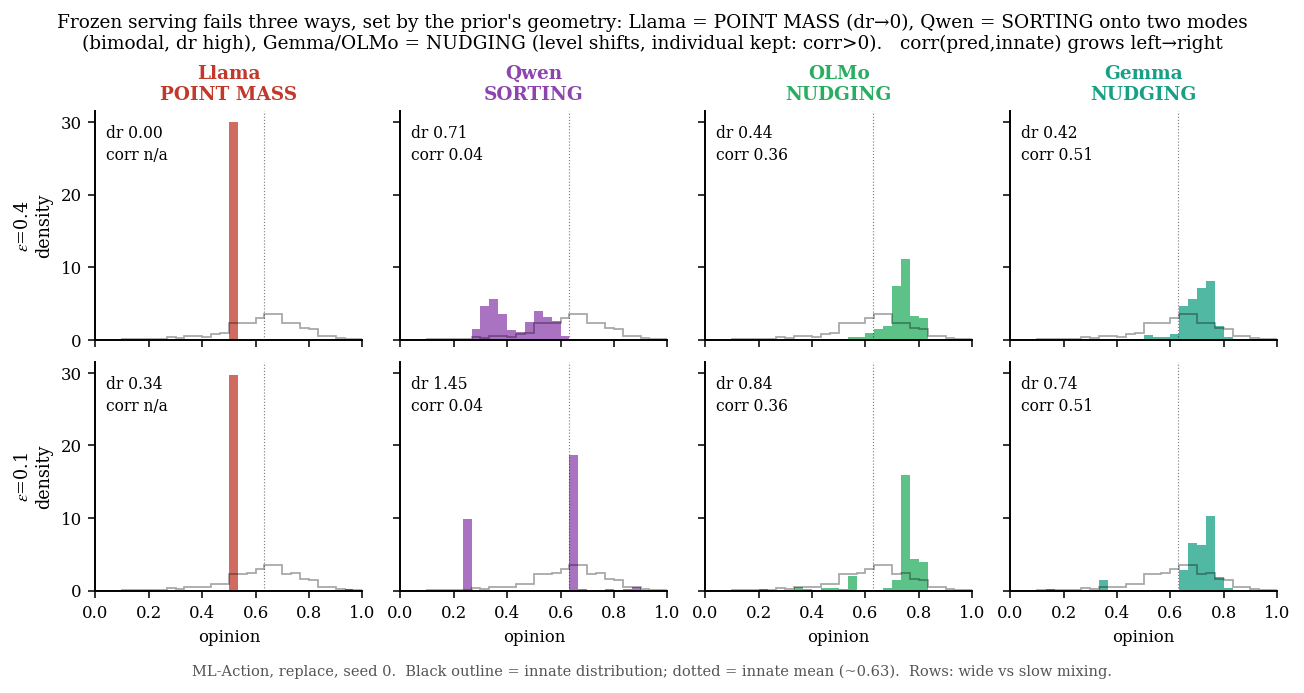
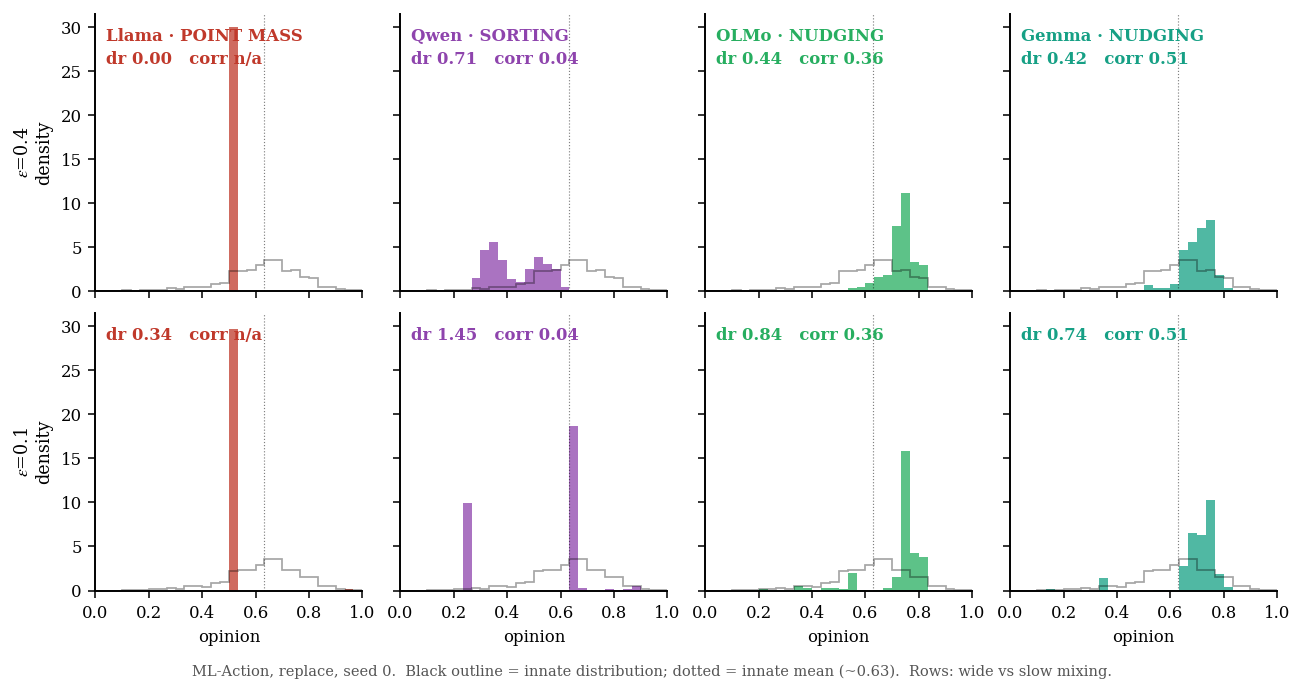
Act I polish: remove all figure titles (narrative -> caption block), add I.3 homophily-protection punchline figure
- strip suptitle/set_title from all 7 Act I scripts; identity moves to axis/
  colorbar labels + in-panel text; interpretation lives in notes/ACT1_CAPTIONS.md
- new fig_nf_homophily: neutral vs homophily no-feedback (ppl|dr), the Act I.3
  punchline (homophily -> ~3x healthier watching model, dr 0.95-0.99)

diff --git a/experiments/llm/plot_nf_homophily.py b/experiments/llm/plot_nf_homophily.py
@@ -1,0 +1,104 @@
+"""Act I.3 punchline: homophily protects the model that only WATCHES the
+population (train, never serve = no-feedback).
+
+Four no-feedback runs at the same cell (ML-Action, a040, replace, beta=0,
+seed 0), crossing mixing {slow e010, wide e040} x social structure
+{neutral gamma=0, homophily gamma=+1.5}:
+
+  arm            ppl(tail)   dr(end)
+  neutral e010    15.4        0.72
+  homo    e010     5.8        0.99
+  neutral e040    29.0        0.23
+  homo    e040     9.2        0.95
+
+READING (direction confirmed, magnitude honest): homophily keeps the
+population diverse (dr ~0.95-0.99 vs 0.23-0.72), and the watching model
+stays ~3x healthier (ppl 9.2/5.8 vs 29.0/15.4). The same social structure
+that protects the population (Act I.1) protects a model open-loop-watching
+it -- open-loop health is a property of the society. BUT homophily
+PROTECTS, it does not fully RESCUE: homo ppl 9.2 (wide) / 5.8 (slow) still
+sit above the pristine floor ~2, because even homophily lets the population
+drift slightly and that residual non-stationarity rots the model.
+
+Run: MPLCONFIGDIR=/tmp/mpl python experiments/llm/plot_nf_homophily.py
+Pure numpy/torch on pulled runs -- no transformers, no download.
+"""
+import json
+import os
+
+import numpy as np
+import torch
+
+os.environ.setdefault("MPLCONFIGDIR", "/tmp/mpl")
+import matplotlib
+matplotlib.use("Agg")
+import matplotlib.pyplot as plt
+
+RUNS = "runs/pokec_gated_lm"
+OUT = "experiments/llm/figs"
+TAIL = 5
+# (label, eps) -> (neutral tag, homophily tag)
+CELLS = [("slow  $\\epsilon$=0.1", "mlanf_e010_a040_rep_b0_s0", "mlanfH_e010_a040_rep_b0_s0"),
+         ("wide  $\\epsilon$=0.4", "mlanf_e040_a040_rep_b0_s0", "mlanfH_e040_a040_rep_b0_s0")]
+NEU, HOM = "#555555", "#2980b9"  # matches plot_pop_alone (neutral gray, homophily blue)
+FLOOR = 2.0
+
+
+def metrics(tag):
+    d = torch.load(f"{RUNS}/{tag}/trajectory.pt", map_location="cpu", weights_only=False)
+    op = np.clip(np.asarray(d["op_raw"], np.float32), 0, 1)
+    inn = np.asarray(d["innate"], np.float32)
+    ppl = np.asarray(d["ppl_raw"], np.float32)
+    return (float(np.median(ppl[-TAIL:])),
+            float(op[-TAIL:].std(1).mean() / (inn.std() + 1e-9)))
+
+
+labels = [c[0] for c in CELLS]
+neu_ppl, neu_dr, hom_ppl, hom_dr = [], [], [], []
+for _, nt, ht in CELLS:
+    p, dr = metrics(nt); neu_ppl.append(p); neu_dr.append(dr)
+    p, dr = metrics(ht); hom_ppl.append(p); hom_dr.append(dr)
+
+with open(f"{OUT}/fig_nf_homophily.json", "w") as fh:
+    json.dump({"cell": "no-feedback, a040 replace b0 s0",
+               "labels": labels, "floor": FLOOR,
+               "neutral": {"ppl": neu_ppl, "dr": neu_dr},
+               "homophily": {"ppl": hom_ppl, "dr": hom_dr}}, fh, indent=2)
+
+# ---- figure: model ppl | population dr, grouped bars ---------------------
+plt.rcParams.update({"font.family": "serif", "mathtext.fontset": "stix",
+                     "axes.spines.top": False, "axes.spines.right": False,
+                     "axes.linewidth": 1.1, "font.size": 9})
+fig, (axp, axd) = plt.subplots(1, 2, figsize=(7.2, 3.4), constrained_layout=True)
+x = np.arange(len(labels)); w = 0.36
+
+axp.bar(x - w / 2, neu_ppl, w, color=NEU, label="neutral  $\\gamma$=0")
+axp.bar(x + w / 2, hom_ppl, w, color=HOM, label="homophily  $\\gamma$=+1.5")
+for xi, v in zip(x - w / 2, neu_ppl):
+    axp.text(xi, v + 0.5, f"{v:.0f}", ha="center", va="bottom", fontsize=8)
+for xi, v in zip(x + w / 2, hom_ppl):
+    axp.text(xi, v + 0.5, f"{v:.0f}", ha="center", va="bottom", fontsize=8)
+axp.axhline(FLOOR, color="#c0392b", lw=0.9, ls="--")
+axp.text(-0.42, FLOOR + 0.9, "pristine floor ~2", color="#c0392b", fontsize=7,
+         va="bottom", ha="left")
+axp.set_xticks(x); axp.set_xticklabels(labels)
+axp.set_ylabel("model perplexity  ppl", fontsize=9)
+axp.legend(frameon=False, fontsize=8, loc="upper left")
+
+axd.bar(x - w / 2, neu_dr, w, color=NEU)
+axd.bar(x + w / 2, hom_dr, w, color=HOM)
+for xi, v in zip(x - w / 2, neu_dr):
+    axd.text(xi, v + 0.01, f"{v:.2f}", ha="center", va="bottom", fontsize=8)
+for xi, v in zip(x + w / 2, hom_dr):
+    axd.text(xi, v + 0.01, f"{v:.2f}", ha="center", va="bottom", fontsize=8)
+axd.set_xticks(x); axd.set_xticklabels(labels)
+axd.set_ylim(0, 1.1)
+axd.set_ylabel("population diversity  dr(30)", fontsize=9)
+
+fig.text(0.5, -0.03, "No-feedback (train, never serve), ML-Action a040 replace "
+         "$\\beta$=0 seed 0.  Protects, not full rescue: homo ppl still > floor.",
+         ha="center", va="top", fontsize=7.5, color="#555555")
+fig.savefig(f"{OUT}/fig_nf_homophily.png", dpi=140, bbox_inches="tight")
+print(f"saved {OUT}/fig_nf_homophily.png and fig_nf_homophily.json")
+print("neutral ppl", neu_ppl, "dr", neu_dr)
+print("homo    ppl", hom_ppl, "dr", hom_dr)

diff --git a/experiments/llm/plot_hinge_2x2.py b/experiments/llm/plot_hinge_2x2.py
@@ -91,7 +91,7 @@ plt.rcParams.update({"font.family": "serif", "mathtext.fontset": "stix",
 fig, axes = plt.subplots(1, 2, figsize=(7.4, 3.6), constrained_layout=True)
 
 
-def panel(ax, M, title, cmap, norm, fmt, good_high):
+def panel(ax, M, label, cmap, norm, fmt, good_high):
     im = ax.imshow(M, cmap=cmap, norm=norm, aspect="equal")
     for i in range(2):
         for j in range(2):
@@ -104,28 +104,24 @@ def panel(ax, M, title, cmap, norm, fmt, good_high):
                     color=txt, fontsize=11)
     ax.set_xticks([0, 1]); ax.set_xticklabels(["serve off", "serve ON"])
     ax.set_yticks([0, 1]); ax.set_yticklabels(["train off", "train ON"])
-    ax.set_title(title, fontsize=10)
     for s in ax.spines.values():
         s.set_visible(False)
     ax.tick_params(length=0)
     cb = fig.colorbar(im, ax=ax, fraction=0.046, pad=0.04)
     cb.ax.tick_params(labelsize=7)
+    cb.set_label(label, fontsize=9)
     return im
 
 
 # population diversity: sequential; low dr = collapsed (bad for population)
-panel(axes[0], DR, "population diversity  dr(30)\n(serve moves it; frozen SORTS up)",
+panel(axes[0], DR, "population diversity  dr(30)",
       cmap="YlGnBu", norm=plt.Normalize(0.0, 1.0),
       fmt=lambda v: f"{v:.2f}", good_high=True)
 # model health: log ppl; high = rotted (bad for model)
-panel(axes[1], PPL, "model perplexity  ppl\n(train rots it; serve amplifies)",
+panel(axes[1], PPL, "model perplexity  ppl",
       cmap="OrRd", norm=LogNorm(vmin=10, vmax=60),
       fmt=lambda v: f"{v:.0f}", good_high=False)
 
-fig.suptitle("The hinge — each object degrades through a different wire:\n"
-             "train rots the model · serve moves the population · "
-             "only the closed loop fails both",
-             fontsize=10.5)
 fig.text(0.5, -0.02, "Qwen ML-Action, $\\epsilon$=0.4 (wide mixing), replace, "
          "$\\beta$=0, seed 0.  no-AI/frozen ppl = untrained base.",
          ha="center", va="top", fontsize=7.5, color="#555555")

diff --git a/experiments/llm/plot_frozen_mechanisms.py b/experiments/llm/plot_frozen_mechanisms.py
@@ -76,12 +76,11 @@ for c, (mkey, mname, mech, color) in enumerate(MODELS):
         ax.hist(d["op"], bins=bins, color=color, alpha=0.75, density=True)
         ax.axvline(float(d["inn"].mean()), color="#000", lw=0.6, ls=":", alpha=0.5)
         cc = "n/a" if not np.isfinite(d["corr"]) else f"{d['corr']:.2f}"
-        ax.text(0.04, 0.94, f"dr {d['dr']:.2f}\ncorr {cc}", transform=ax.transAxes,
-                fontsize=8, va="top", linespacing=1.4)
+        head = f"{mname} · {mech}\n" if r == 0 else ""
+        ax.text(0.04, 0.95, f"{head}dr {d['dr']:.2f}   corr {cc}",
+                transform=ax.transAxes, fontsize=8.5, va="top", linespacing=1.5,
+                color=color, fontweight="bold")
         ax.set_xlim(0, 1)
-        if r == 0:
-            ax.set_title(f"{mname}\n{mech}", fontsize=9.5, color=color,
-                         fontweight="bold")
         if c == 0:
             ax.set_ylabel(f"$\\epsilon$={eps}\ndensity", fontsize=9)
         if r == 1:
@@ -91,11 +90,6 @@ with open(f"{OUT}/fig_frozen_mechanisms.json", "w") as fh:
     json.dump({"cell": "frozen serve, 4 models x eps{0.4,0.1}, s0",
                "innate_mean": 0.63, "metrics": out}, fh, indent=2)
 
-fig.suptitle("Frozen serving fails three ways, set by the prior's geometry: "
-             "Llama = POINT MASS (dr→0), Qwen = SORTING onto two modes\n"
-             "(bimodal, dr high), Gemma/OLMo = NUDGING (level shifts, individual "
-             "kept: corr>0).   corr(pred,innate) grows left→right",
-             fontsize=9.5)
 fig.text(0.5, -0.02, "ML-Action, replace, seed 0.  Black outline = innate "
          "distribution; dotted = innate mean (~0.63).  Rows: wide vs slow mixing.",
          ha="center", va="top", fontsize=7.5, color="#555555")

diff --git a/experiments/llm/plot_hinge_dists.py b/experiments/llm/plot_hinge_dists.py
@@ -130,20 +130,15 @@ for i in range(2):
         ax.axvline(inn_np.mean(), color="#000000", lw=0.7, ls=":", alpha=0.5)
         serve = "serve ON" if j else "serve off"
         train = "train ON" if i else "train off"
-        ax.set_title(f"{name}   ({serve}, {train})", fontsize=9.5,
-                     color=COLOR[name], fontweight="bold")
-        ax.text(0.03, 0.92, f"dr = {dr:.2f}", transform=ax.transAxes,
-                fontsize=9, va="top")
+        ax.text(0.03, 0.95, f"{name}\n({serve}, {train})\ndr = {dr:.2f}",
+                transform=ax.transAxes, fontsize=9, va="top",
+                color=COLOR[name], fontweight="bold", linespacing=1.4)
         if i == 1:
             ax.set_xlabel("opinion (Action taste)", fontsize=9)
         if j == 0:
             ax.set_ylabel("density", fontsize=9)
         ax.set_xlim(0, 1)
 axes[0, 0].legend(frameon=False, fontsize=7.5, loc="upper right")
-fig.suptitle("Why the dr numbers look like they do: frozen SORTS the population "
-             "onto two prior\nmodes (bimodal, dr high); closed collapses it to "
-             "one spike; train alone leaves it untouched",
-             fontsize=10)
 fig.text(0.5, -0.02, "Qwen ML-Action, $\\epsilon$=0.4, replace, $\\beta$=0, "
          "seed 0.  Dotted line = innate mean; black outline = innate distribution.",
          ha="center", va="top", fontsize=7.5, color="#555555")

diff --git a/experiments/llm/plot_hinge_regime.py b/experiments/llm/plot_hinge_regime.py
@@ -84,7 +84,6 @@ axp.text(2.02, 2.0, "healthy ~2", color="#2980b9", fontsize=7, va="bottom", ha="
 axp.set_yscale("log")
 axp.set_xticks(x); axp.set_xticklabels(REGIMES)
 axp.set_ylabel("model perplexity  ppl (log)", fontsize=9)
-axp.set_title("model rot is a REPLACE story", fontsize=9.5)
 axp.legend(frameon=False, fontsize=7.5, loc="upper right")
 
 axd.plot(x, nf_dr, "-o", color=NF, lw=2, ms=6, label="no feedback (serve off)")
@@ -92,12 +91,8 @@ axd.plot(x, cl_dr, "-s", color=CL, lw=2, ms=6, label="closed (serve on)")
 axd.set_xticks(x); axd.set_xticklabels(REGIMES)
 axd.set_ylim(0, 1.0)
 axd.set_ylabel("population diversity  dr(30)", fontsize=9)
-axd.set_title("a healthier model also spares the population", fontsize=9.5)
 axd.legend(frameon=False, fontsize=7.5, loc="upper left")
 
-fig.suptitle("The hinge's damage is regime-specific: accumulate/pristine keep the "
-             "model healthy (ppl ~2-3)\nand — when served — leave the population "
-             "far more diverse than replace does", fontsize=10)
 fig.text(0.5, -0.03, "Qwen ML-Action, $\\epsilon$=0.4, $\\beta$=0, seed 0.  "
          "no-feedback pristine not run (serve-off pop is regime-invariant anyway).",
          ha="center", va="top", fontsize=7.5, color="#555555")

diff --git a/experiments/llm/plot_hinge_traj.py b/experiments/llm/plot_hinge_traj.py
@@ -117,7 +117,6 @@ for name, y in [("no-AI", noai), ("frozen", frz_dr), ("no feedback", nf_dr), ("c
 axd.axhline(1.0, color="#999", lw=0.8, ls="--")
 axd.set_xlabel("round", fontsize=9)
 axd.set_ylabel("population diversity  dr(t)", fontsize=9)
-axd.set_title("population: serve moves it; frozen sorts UP", fontsize=9.5)
 axd.legend(frameon=False, fontsize=7.5, loc="upper right")
 axd.set_xlim(1, 30)
 
@@ -127,13 +126,9 @@ for name, y in [("frozen", frz_ppl), ("no feedback", nf_ppl), ("closed", cl_ppl)
 axp.set_yscale("log")
 axp.set_xlabel("round", fontsize=9)
 axp.set_ylabel("model perplexity  ppl(t) (log)", fontsize=9)
-axp.set_title("model: train rots it, progressively", fontsize=9.5)
 axp.legend(frameon=False, fontsize=7.5, loc="upper left")
 axp.set_xlim(1, 30)
 
-fig.suptitle("When the corners diverge: the population departs only under SERVE "
-             "(frozen sorts up early),\nthe model rots only under TRAIN and does "
-             "so gradually as its corpus homogenizes", fontsize=10)
 fig.text(0.5, -0.03, "Qwen ML-Action, $\\epsilon$=0.4, replace, $\\beta$=0, seed 0.  "
          "no-AI has no model; frozen weights never move.",
          ha="center", va="top", fontsize=7.5, color="#555555")

diff --git a/experiments/llm/plot_pop_alone.py b/experiments/llm/plot_pop_alone.py
@@ -122,7 +122,5 @@ ax.set_ylabel("diversity kept  dr(30)", fontsize=10)
 ax.set_xticks(EPS)
 ax.set_ylim(0, 1.08)
 ax.legend(frameon=False, fontsize=8, loc="lower left")
-ax.set_title("With no model in the loop, heterophilic\n"
-             "populations self-collapse; homophilic stay wide", fontsize=10)
-fig.savefig(f"{OUT}/fig_pop_alone.png", dpi=140)
+fig.savefig(f"{OUT}/fig_pop_alone.png", dpi=140, bbox_inches="tight")
 print(f"saved {OUT}/fig_pop_alone.png and fig_pop_alone.json")
